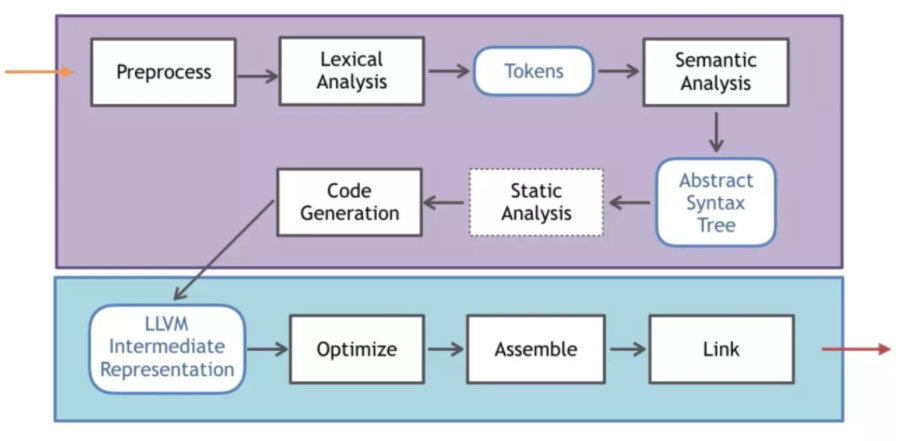
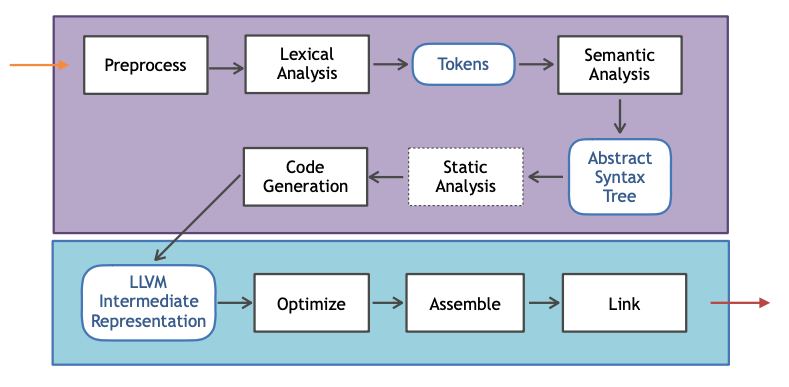
1

Changed region(s): [[0.0, 0.031, 1.0, 0.9612], [0.7605, 0.7752, 0.8213, 0.8062], [0.2433, 0.5271, 0.2738, 0.5581]]

diff --git a/整理的小知识点/底层原理篇.md b/整理的小知识点/底层原理篇.md
@@ -252,11 +252,36 @@ Q2:`autorelease`和`@autoreleasepool`内部是如何实现的?
 如上图所示，在`Xcode`按下`CMD+B`之后的工作流程。
 
 * 预处理(`Pre-process`)：他的主要工作就是将宏替换，删除注释展开头文件，生成`.i`文件。
-* 词法分析(`Lexical Analysis`)：将代码切成一个个 `token`，比如大小括号，等于号还有字符串等。是计算机科学中将字符序列转换为标记序列的过程。
-* 语法分析(`Semantic Analysis`)：验证语法是否正确，然后将所有节点组成抽象语法树 `AST` 。由 `Clang` 中 `Parser` 和 `Sema` 配合完成。
+* 词法分析(`Lexical Analysis`)：将代码切成一个个 `token`，比如大小括号，等于号还有字符串等。是计算机科学中将字符序列转换为标记序列的过程(不校验语义)。
+* 语法分析(`Semantic Analysis`)：验证语法是否正确，然后将所有节点组成抽象语法树 `AST` 。
+   * 由 `Clang` 中 `Parser` 和 `Sema` 配合完成。
+   * 验证语法是否正确。
+   * 根据当前语言的语法生成语义节点, 并将所有节点组合成抽象语法树(AST)。
 * 静态分析(`Static Analysis`)：使用它来表示用于分析源代码以便自动发现错误。
-* 中间代码生成(`Code Generation`)：生成中间代码 `IR`，`CodeGen` 会负责将语法树自顶向下遍历逐步翻译成 `LLVM IR`，`IR` 是编译过程的前端的输出，后端的输入。
-* 优化(`Optimize`)：`LLVM` 会去做些优化工作，在 `Xcode` 的编译设置里也可以设置优化级别-O1、-O3、-Os...还可以写些自己的 `Pass`，官方有比较完整的 `Pass` 教程： [Writing an LLVM Pass](http://llvm.org/docs/WritingAnLLVMPass.html) 。如果开启了`Bitcode`苹果会做进一步的优化，有新的后端架构还是可以用这份优化过的`Bitcode`去生成。
+   * 通过语法树进行代码分析,找出非语法性错误
+   * 模拟代码执行路径,分析出`control-flow graph`(`CFG`)
+   * 预置了常用的`checker`
+* 中间代码生成(`Code Generation`)
+   * 生成中间代码 `IR`，`CodeGen` 会负责将语法树自顶向下遍历逐步翻译成 `LLVM IR`，
+   * `LLVM IR` 是编译过程的前端(`Frontend`)的输出，后端(`LLVM Backend`)的输入。
+   * 与`Objective-C Runtime`桥接
+      * `Class` / `Meta Class` / `Protocol` / `Category` 内存结构⽣生成，并存放在指定 `section` 中 (如 `Class`:`_DATA`, `_objc_classrefs`)
+      * `Method` / `Ivar` / `Property` 内存结构生成
+      * 组成 `method_list` / `ivar_list` / `property_list` 并填⼊ `Class`
+      * `Non-Fragile ABI`:为每个 `Ivar` 合成 `OBJC_IVAR_$_` 偏移值常量
+      * 存取 `Ivar` 的语句 (`_ivar = 123; int a = _ivar;`) 转写成 `base` + `OBJC_IVAR_$_` 的形式
+      * 将语法树中的 `ObjCMessageExpr` 翻译成相应版本的`objc_msgSend`，对 `super` 关键字的调⽤用翻译成`objc_msgSendSuper`
+      * 根据修饰符 `strong` / `weak` / `copy` / `atomic` 合成 `@property`⾃动实现的 `setter` / `getter`
+      * 处理 `@synthesize`
+      * ⽣成 `block_layout` 的数据结构
+      * 变量的 `capture` (`__block` / `__weak`)
+      * 生成 `_block_invoke` 函数      
+      * `ARC`:分析对象引⽤用关系，将`objc_storeStrong`/`objc_storeWeak` 等 `ARC` 代码插⼊
+      * 将 `ObjCAutoreleasePoolStmt` 转译成`objc_autoreleasePoolPush`/`Pop`
+      * 实现⾃自动调⽤用 `[super dealloc]`
+      * 为每个拥有 `ivar` 的 `Class` 合成 `.cxx_destructor` ⽅方法来⾃动释放类的成员变量，代替 `MRC` 时代的 "`self.xxx = nil`"
+
+* 优化(`Optimize`)：`LLVM` 会去做些优化工作，在 `Xcode` 的编译设置里也可以设置优化级别-O1、-O3、-Os...还可以写些自己的 `Pass`，官方有比较完整的`Pass`教程：[Writing an LLVM Pass](http://llvm.org/docs/WritingAnLLVMPass.html) 。如果开启了`Bitcode`苹果会做进一步的优化，有新的后端架构还是可以用这份优化过的`Bitcode`去生成。
 * 生成目标文件(`Assemble`)：生成`Target`相关`Object`(`Mach-o`)。
 * 链接(`Link`)：生成`Executable`可执行文件。
 
@@ -267,23 +292,24 @@ Q2:`autorelease`和`@autoreleasepool`内部是如何实现的?
 
 ##### LibClang
 `LibClang` 提供了一个稳定的高级 `C` 接口，`Xcode` 使用的就是 `LibClang`。`LibClang` 可以访问 `Clang` 的上层高级抽象的能力， 比如获取所有 `Token`、遍历语法树、代码补全等。由于 `API` 很稳定，`Clang` 版本更新对其影响不大。但是，`LibClang` 并不能完全访问到 `Clang AST` 信息。
-
-优点
-* 可以使用 `C++` 之外的语言与 `Clang` 交互。
-* 稳定的交互接口和向后兼容。
-* 强大的高级抽象，比如用光标迭代 `AST`，并且不用学习 `Clang AST` 的所有细节。
-
-缺点
-* 不能完全控制 `Clang AST`。
+* `C` `API` 来访问 `Clang` 的上层能力，如获取 `Tokens`、遍历语法树、代码补全、获取诊断信息
+* `API` 稳定，不受 `Clang` 源码更更新影响
+* 只有上层的语法树访问，不能获取到全部信息(不能完全控制 `Clang AST`)
+* 使⽤原始 `C` `API`
+* 脚本语言:使⽤用官⽅提供的 `python binding` 或开源的 `node-js` / `ruby binding`
+* `Objective-C`:开源库 [ClangKit](https://github.com/macmade/ClangKit)
 
 ##### Clang Plugin
 `Clang Plugins` 可以让你在 `AST` 上做些操作，这些操作能够集成到编译中，成为编译的一部分。插件是在运行时由编译器加载的动态库，方便集成到构建系统中。
 
 使用 `Clang Plugins` 一般都是希望能够完全控制 `Clang AST`，同时能够集成在编译流程中，可以影响编译的过程，进行中断或者提示。
+* 对语法树有完全的控制权
+* 作为插件注入到编译流程中，可以影响 `build` 和决定编译过程
+* 需要使⽤ `C++` 且对 `Clang` 源码熟悉
 
 ##### LibTooling
 `LibTooling` 是一个 `C++` 接口，通过`LibTooling` 能够编写独立运行的语法检查和代码重构工具。`LibTooling` 的优势如下:
-* 所写的工具不依赖于构建系统，可以作为一个命令单独使用，比如 `clang-check`、`clang-fixit`、`clang-format`;
+* 所写的工具不依赖于构建系统，**可以作为一个命令单独使用**，比如 `clang-check`、`clang-fixit`、`clang-format`;
 * 可以完全控制 `Clang AST`;
 * 能够和 `Clang Plugins` 共用一份代码。
 
